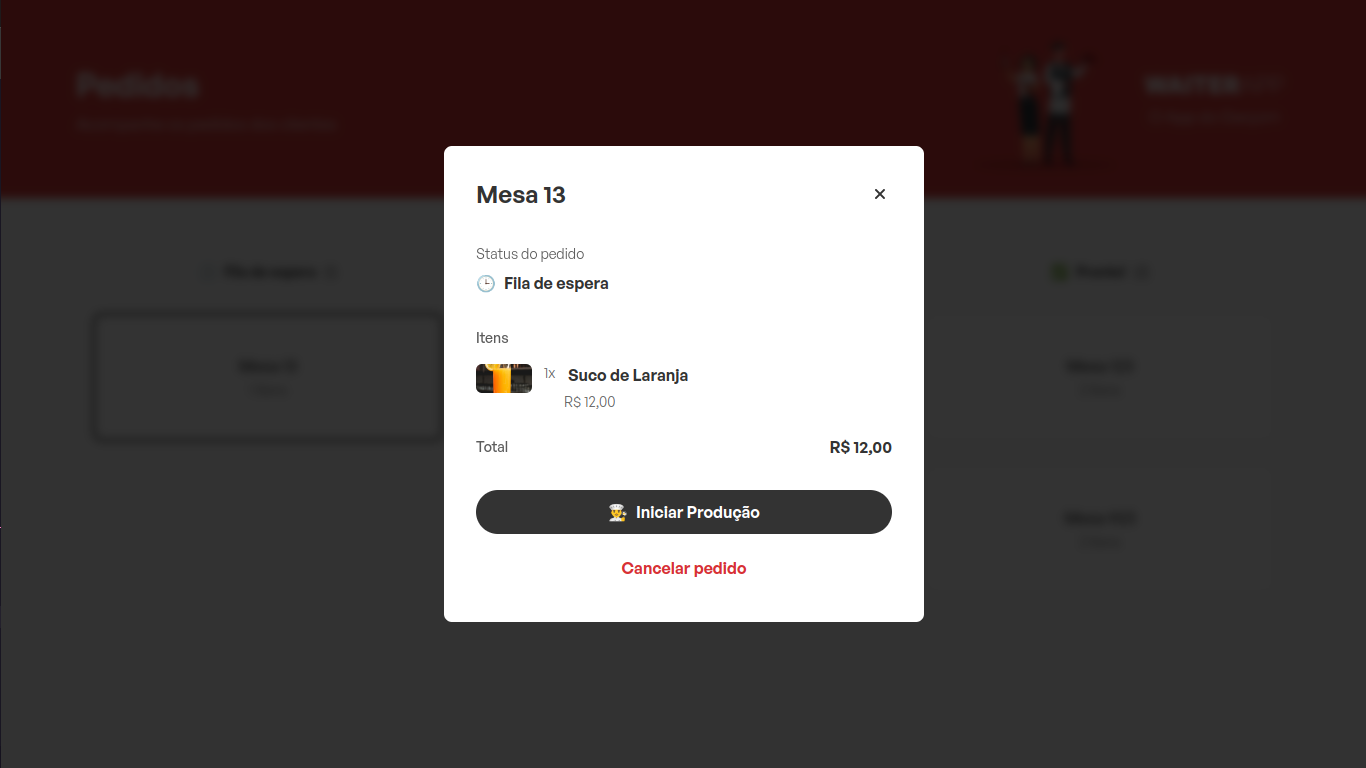
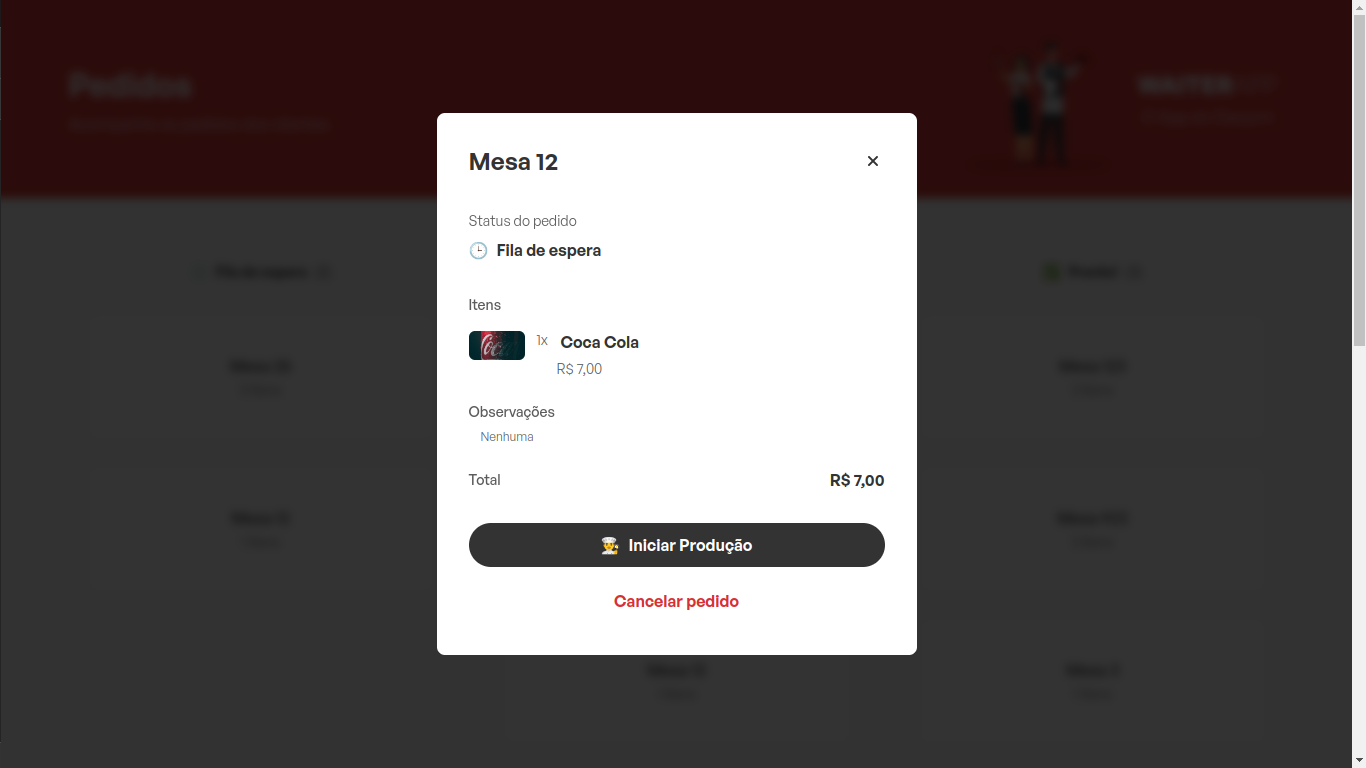
feat: Adding feature notes in orders
- Was a created and implemented feature notes for web and mobile

Changed region(s): [[0.3075, 0.125, 0.6764, 0.875], [0.9839, 0.0, 1.0, 1.0]]

diff --git a/app/src/components/Cart/index.tsx b/app/src/components/Cart/index.tsx
@@ -17,7 +17,8 @@ import {
   QuantityContainer,
   ProductDetails,
   Summary,
-  TotalContainer
+  TotalContainer,
+  Input
 } from './styles';
 
 interface CartProps {
@@ -31,6 +32,7 @@ interface CartProps {
 export function Cart({ cartItems, onAdd, onDecrement, onConfirmOrder, selectedTable }: CartProps) {
   const [isLoading, setIsLoading] = useState(false);
   const [isModalVisible, setIsModalVisible] = useState(false);
+  const [note, setNote] = useState('');
 
   const total = cartItems.reduce((acc, cartItem) => {
     return acc + cartItem.quantity * cartItem.product.price;
@@ -43,7 +45,8 @@ export function Cart({ cartItems, onAdd, onDecrement, onConfirmOrder, selectedTa
       products: cartItems.map((cartItem) => ({
         product: cartItem.product._id,
         quantity: cartItem.quantity
-      }))
+      })),
+      note
     };
     await api.post('/orders', payload);
     setIsLoading(false);
@@ -51,6 +54,7 @@ export function Cart({ cartItems, onAdd, onDecrement, onConfirmOrder, selectedTa
   }
 
   function handleOk() {
+    setNote('');
     onConfirmOrder();
     setIsModalVisible(false);
   }
@@ -63,7 +67,7 @@ export function Cart({ cartItems, onAdd, onDecrement, onConfirmOrder, selectedTa
           data={cartItems}
           keyExtractor={cartItem => cartItem.product._id}
           showsVerticalScrollIndicator={false}
-          style={{ marginBottom: 20, maxHeight: 150 }}
+          style={{ marginBottom: 20, maxHeight: 135 }}
           renderItem={({ item: cartItem }) => (
             <Item>
               <ProductContainer>
@@ -96,6 +100,11 @@ export function Cart({ cartItems, onAdd, onDecrement, onConfirmOrder, selectedTa
           )}
         />
       )}
+      <Input
+        placeholder='Observações'
+        placeholderTextColor='#666'
+        keyboardType='default'
+        onChangeText={setNote} />
       <Summary>
         <TotalContainer>
           {cartItems.length > 0 ? (

diff --git a/api/src/app/useCases/orders/createOrder.ts b/api/src/app/useCases/orders/createOrder.ts
@@ -4,8 +4,12 @@ import { Order } from '../../models/Order';
 
 export async function createOrder(req: Request, res: Response) {
   try {
-    const { table, products } = req.body;
-    const order = await Order.create({ table, products });
+    const { table, products, note } = req.body;
+    const order = await Order.create({
+      table,
+      products,
+      note: note ? note : '',
+    });
     const orderDetails = await order.populate('products.product');
     io.emit('orders@new', orderDetails);
     res.status(201).json(order);

diff --git a/fe/src/components/OrderModal/styles.ts b/fe/src/components/OrderModal/styles.ts
@@ -98,6 +98,25 @@ export const OrderDetails = styled.div`
     }
   }
 
+  .notes {
+    display: flex;
+    flex-direction: column;
+    margin-top: 24px;
+
+    > strong {
+      font-weight: 500;
+      font-size: 14px;
+      opacity: 0.8;
+    }
+
+    > span {
+      font-size: 12px;
+      color: #666;
+      margin-left: 12px;
+      margin-top: 8px;
+    }
+  }
+
   .total {
     display: flex;
     align-items: center;

diff --git a/fe/src/components/OrderModal/index.tsx b/fe/src/components/OrderModal/index.tsx
@@ -88,6 +88,11 @@ export function OrderModal({
             ))}
           </div>
 
+          <div className="notes">
+            <strong>Observações</strong>
+            <span>{order.note ? order.note : 'Nenhuma'}</span>
+          </div>
+
           <div className="total">
             <span>Total</span>
             <strong>{formatCurrency(total)}</strong>

diff --git a/app/src/components/Cart/styles.ts b/app/src/components/Cart/styles.ts
@@ -39,3 +39,11 @@ export const TotalContainer = styled.View`
   margin-right: 38px;
   flex: 1;
 `;
+
+export const Input = styled.TextInput`
+  background: #ffffff;
+  border: 1px solid rgba(204, 204, 204, 0.5);
+  border-radius: 8px;
+  padding: 6px;
+  margin-bottom: 24px;
+`;

diff --git a/fe/src/types/Order.ts b/fe/src/types/Order.ts
@@ -2,6 +2,7 @@ export interface Order {
   _id: string;
   table: string;
   status: 'WAITING' | 'IN_PRODUCTION' | 'DONE';
+  note: string;
   products: {
     _id: string;
     quantity: number;

diff --git a/api/src/app/models/Order.ts b/api/src/app/models/Order.ts
@@ -14,6 +14,9 @@ export const Order = model('Order', new Schema({
     type: Date,
     default: Date.now
   },
+  note: {
+    type: String
+  },
   products: {
     type: [{
       product: {
